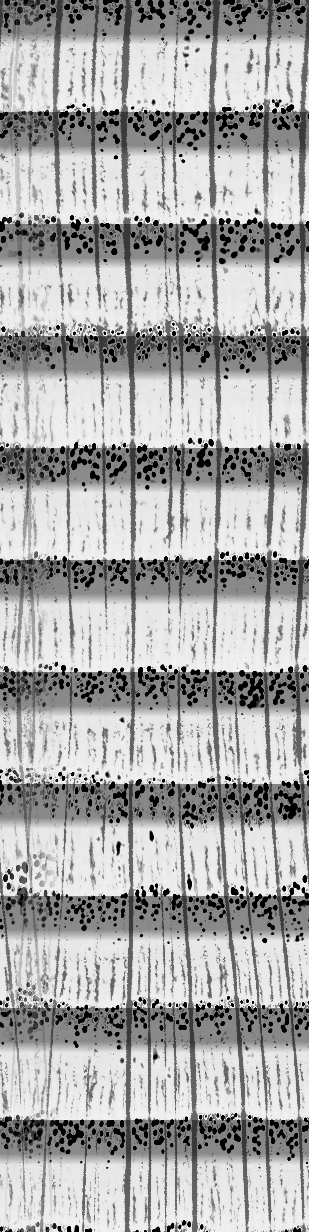
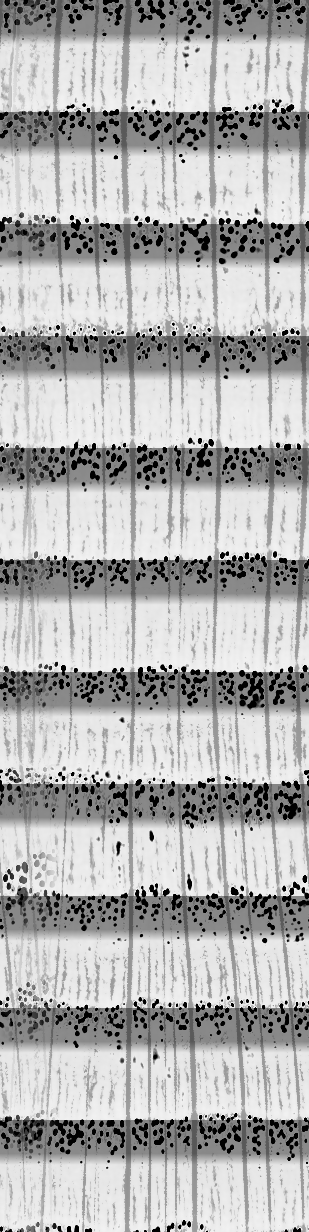
Well Rounded: oak's rays as they are, not spokes
Real rays begin and end, fall unevenly and wander; they don't run in
even, straight spokes from heart to bark. Each year now mostly carries on
the last year's rays with a small drift, but now and then starts a fresh
set; a gentle stretch and squeeze round each ring, its own, makes them
fall unevenly and bend a little; they print fainter, as fine flecks; and
the heart takes a blurred year, so no rays meet at the pith.

Claude-Session: https://claude.ai/code/session_01WhGxUDQ2nhT1B8pKnZrdq5

diff --git a/src/rings/press.ts b/src/rings/press.ts
@@ -1164,7 +1164,9 @@ function printYears(v: View, oak: Years): void {
   for (let i = 0; i < n; i++) {
     const run = runOf(i), q = runs.get(run)!, perPx = oak.year / Math.max(0.5, q.w / q.k);
     reps[i] = Math.max(1, Math.round((TAU * (q.R / q.k) * perPx) / W0));
-    off[i] = h1(run * 7.3 + tree.seed * 0.01) * W0;
+    // (Its rays: mostly the last year's, drifting a little; now and then a fresh set, as rays end and begin.)
+    const fresh = i === 0 || runOf(i - 1) !== run || h1(i * 3.71 + tree.seed * 0.013) < 0.3;
+    off[i] = fresh ? h1(i * 7.3 + tree.seed * 0.01) * W0 : off[i - 1] + (h1(i * 5.9) - 0.5) * 0.06 * W0;
     yr[i] = (i + run * 4) % oak.n;
     const w = scr(meanR(i)) - scr(meanR(i - 1));
     lvl[i] = Math.max(0, Math.min(oak.levels.length - 1, Math.ceil(Math.log2(oak.year / Math.max(0.5, w)))));
@@ -1193,8 +1195,11 @@ function printYears(v: View, oak: Years): void {
       while (lo < hi) { const m = (lo + hi) >> 1; if (at(m, b, f) > r) hi = m; else lo = m + 1; }
       const heart = r < at(-1, b, f), i = heart ? 0 : lo, rin = heart ? 0 : at(i - 1, b, f), rout = heart ? at(-1, b, f) : at(i, b, f);
       const across = (r - rin) / Math.max(1e-3, rout - rin), year = heart ? (yr[0] + oak.n - 1) % oak.n : yr[i];
-      const L = oak.levels[lvl[i]], rows = L.rows;
-      const ink = sample(L, (((a / TAU) * reps[i] * W0 + off[i]) * L.w) / W0, year * rows + across * rows, year * rows, rows) * tone(i);
+      // (Never evenly round: a gentle stretch and squeeze round each ring, its own, so the rays fall
+      // unevenly and bend a little from year to year. The heart, soft: a blurred year, no rays meeting.)
+      const L = oak.levels[heart ? Math.min(oak.levels.length - 1, lvl[i] + 3) : lvl[i]], rows = L.rows;
+      const wob = (0.09 * Math.sin(2 * a + i * 1.7) + 0.06 * Math.sin(3 * a + i * 2.9 + 1) + 0.04 * Math.sin(5 * a + i * 0.6)) * W0;
+      const ink = sample(L, (((a / TAU) * reps[i] * W0 + off[i] + wob * reps[i] * 0.15) * L.w) / W0, year * rows + across * rows, year * rows, rows) * tone(i);
       const k = (y * w + x) * 4;
       d[k] = INK[0]; d[k + 1] = INK[1]; d[k + 2] = INK[2]; d[k + 3] = Math.round(255 * Math.min(1, ink));
     }

diff --git a/scripts/wood/inkmap.py b/scripts/wood/inkmap.py
@@ -19,7 +19,7 @@ for y in range(N):
         pore=np.clip((0.84*med-Lby)/(0.1*med),0,1)
         ray=np.clip((Ly-1.1*med)/(0.14*med),0,1)
         tex=np.clip(1+0.15*(med-Lby)/med,0.9,1.06)
-        ink[s]=base*tex*(1-pore)*(1-0.55*ray)
+        ink[s]=base*tex*(1-pore)*(1-0.3*ray)
     else:
         # darkness relative to the year's range: latewood takes the ink
         lo,hi=np.percentile(Ly,3),np.percentile(Ly,97)
